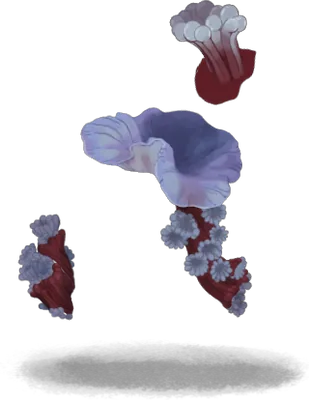
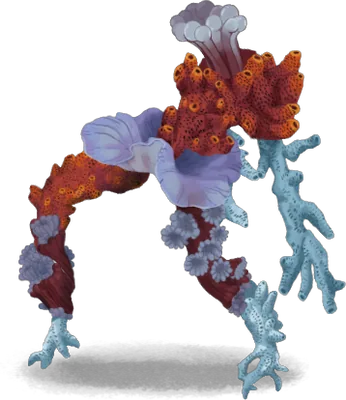
Render Skulking Colony with its combat skin

diff --git a/README.md b/README.md
@@ -923,6 +923,8 @@ for a second Spine track. Keep the base idle animation on track 0 and add the co
 to assemble its rings around the hourglass. Vantom uses `_tracks/charged_1` and Soul Nexus uses
 `tracks/writhe`. Review the WebPs at tooltip size after baking. The `TOOLTIP_FRAMES` in
 `tools/render_encounter_art.py` keep the Soul Nexus and Infested Prisms bodies prominent in the preview.
+Check combat skin setup too. Skulking Colony needs the `normal` skin that the game applies when Phobia
+Mode is off. Record it in `COMBAT_SKINS` so future bakes include the body and limbs.
 
 The other baked art is ignored, and `tools/art_manifest.json` (tracked) lists those served files and their SHA-256 digests. Each bake
 script records what it wrote there, so a re-bake shows up in `git diff`; commit it with the change. The bake scripts
